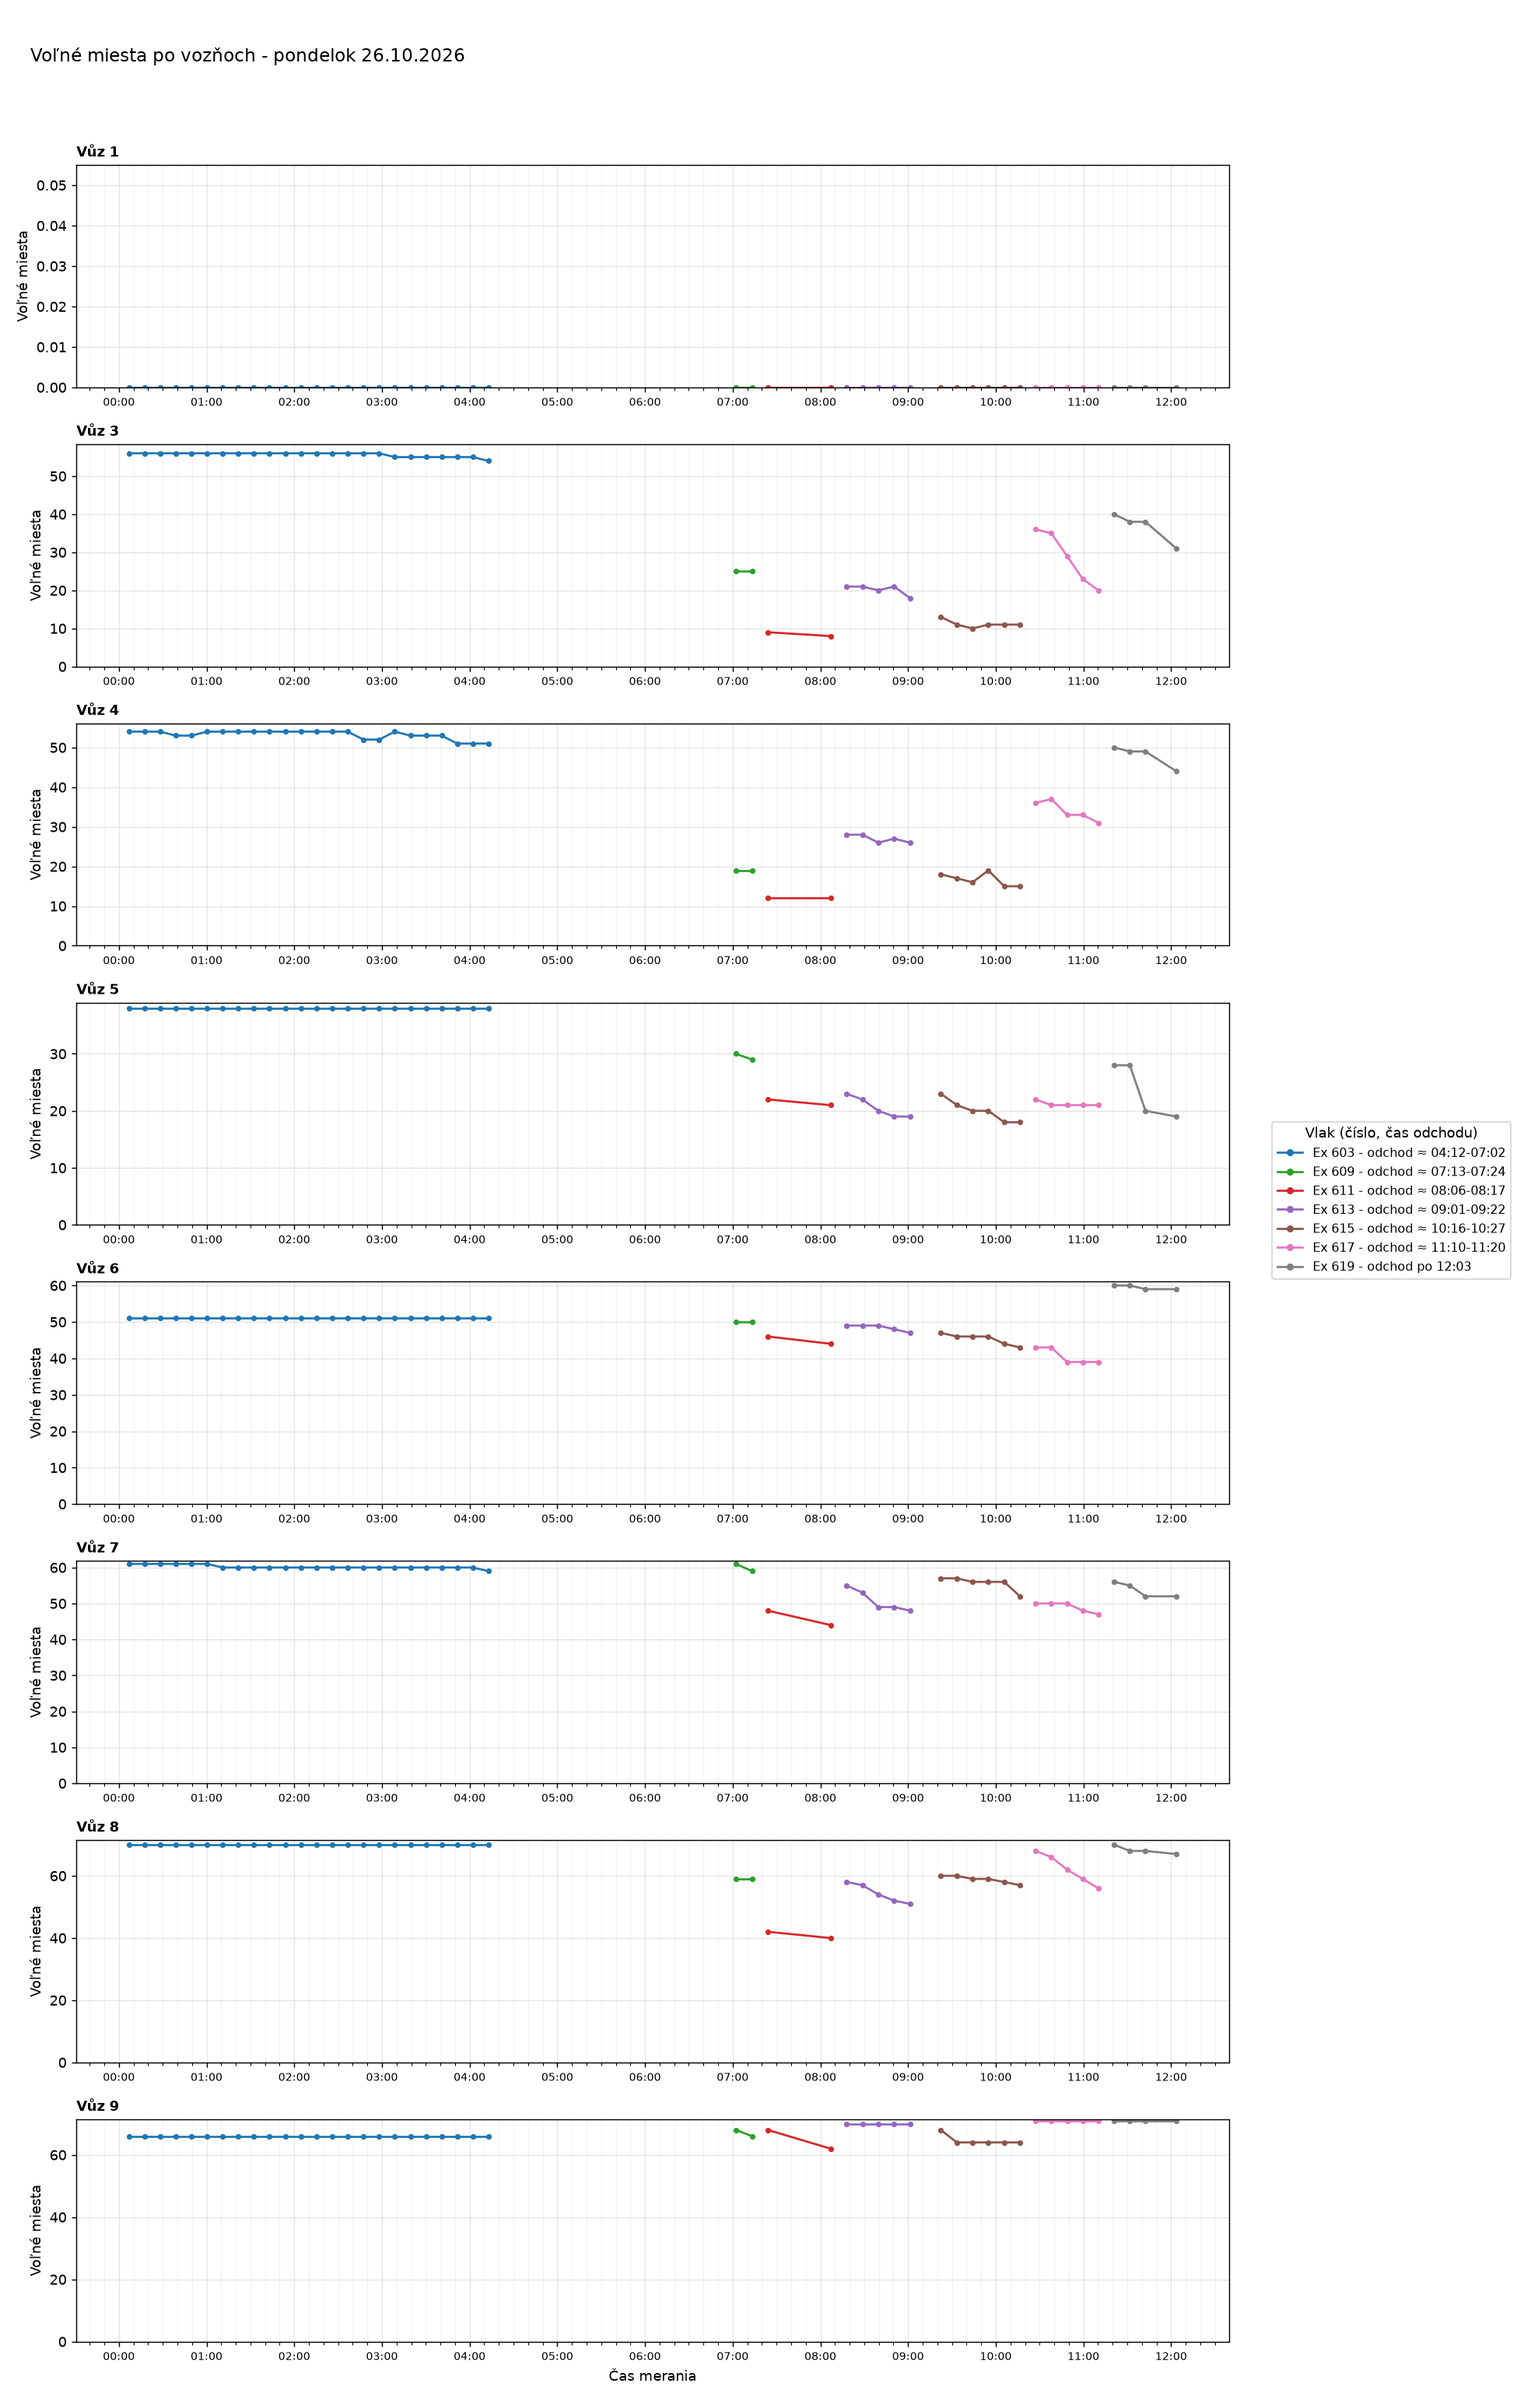
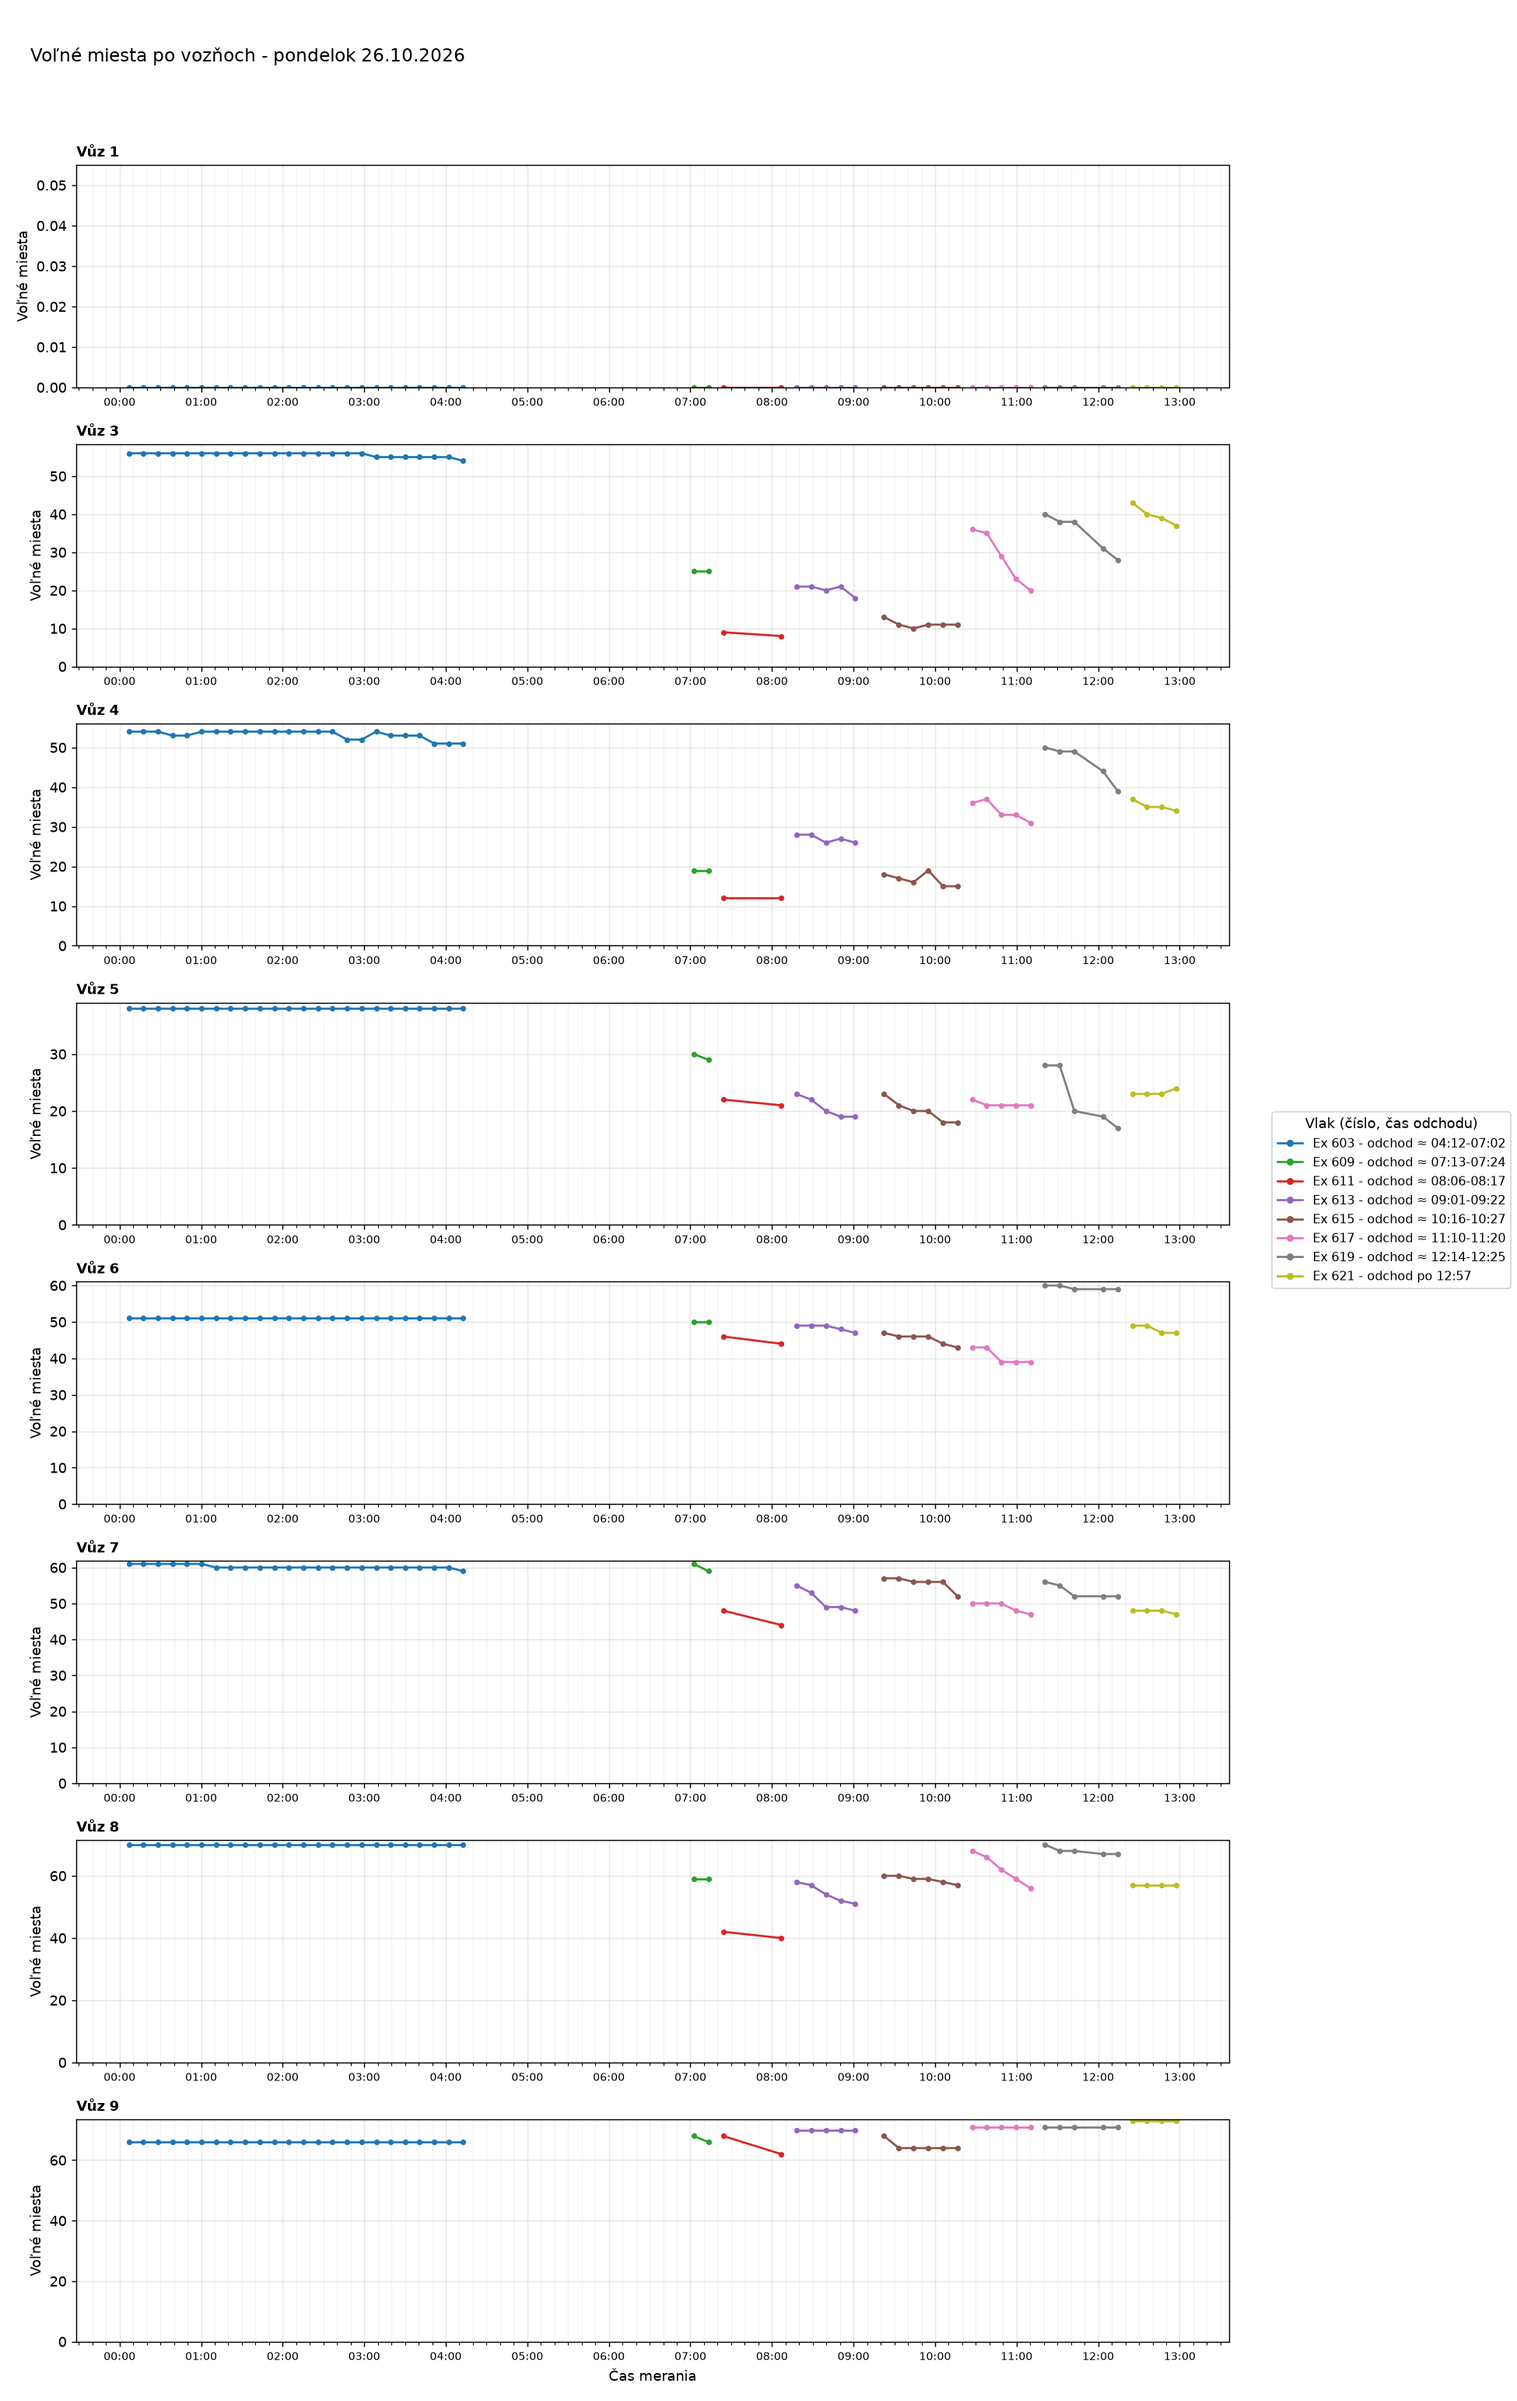
Aktualizácia grafov 2026-10-26 13:05

diff --git a/index.html b/index.html
@@ -35,7 +35,7 @@ h2.oddiel{margin:36px 0 0;font-size:1.4rem}
 <body>
 <main>
 <h1>Voľné miesta vo vlakoch</h1>
-<p class="muted">Posledné meranie: 26.10.2026 12:03 ·
+<p class="muted">Posledné meranie: 26.10.2026 12:57 ·
 <a href="data/obsadenost_data.csv">stiahnuť dáta (CSV)</a></p>
 <nav class="nav"><a href="#suhrn">Súhrn</a><a href="#statistiky">Štatistiky</a><a href="#historia">História grafov</a></nav>
 
@@ -44,7 +44,7 @@ h2.oddiel{margin:36px 0 0;font-size:1.4rem}
 <div class="tablewrap"><table>
 <thead><tr><th>Deň</th><th>Meraní</th><th>Vlakov</th><th>Čas meraní</th></tr></thead>
 <tbody>
-<tr><td><a href="#d2026-10-26">pondelok 26.10.2026</a></td><td>48</td><td>7</td><td>00:06-12:03</td></tr>
+<tr><td><a href="#d2026-10-26">pondelok 26.10.2026</a></td><td>53</td><td>8</td><td>00:06-12:57</td></tr>
 <tr><td><a href="#d2026-10-25">nedeľa 25.10.2026</a></td><td>101</td><td>15</td><td>00:01-23:56</td></tr>
 <tr><td><a href="#d2026-10-24">sobota 24.10.2026</a></td><td>98</td><td>14</td><td>00:10-23:50</td></tr>
 <tr><td><a href="#d2026-10-23">piatok 23.10.2026</a></td><td>64</td><td>13</td><td>07:25-23:49</td></tr>
